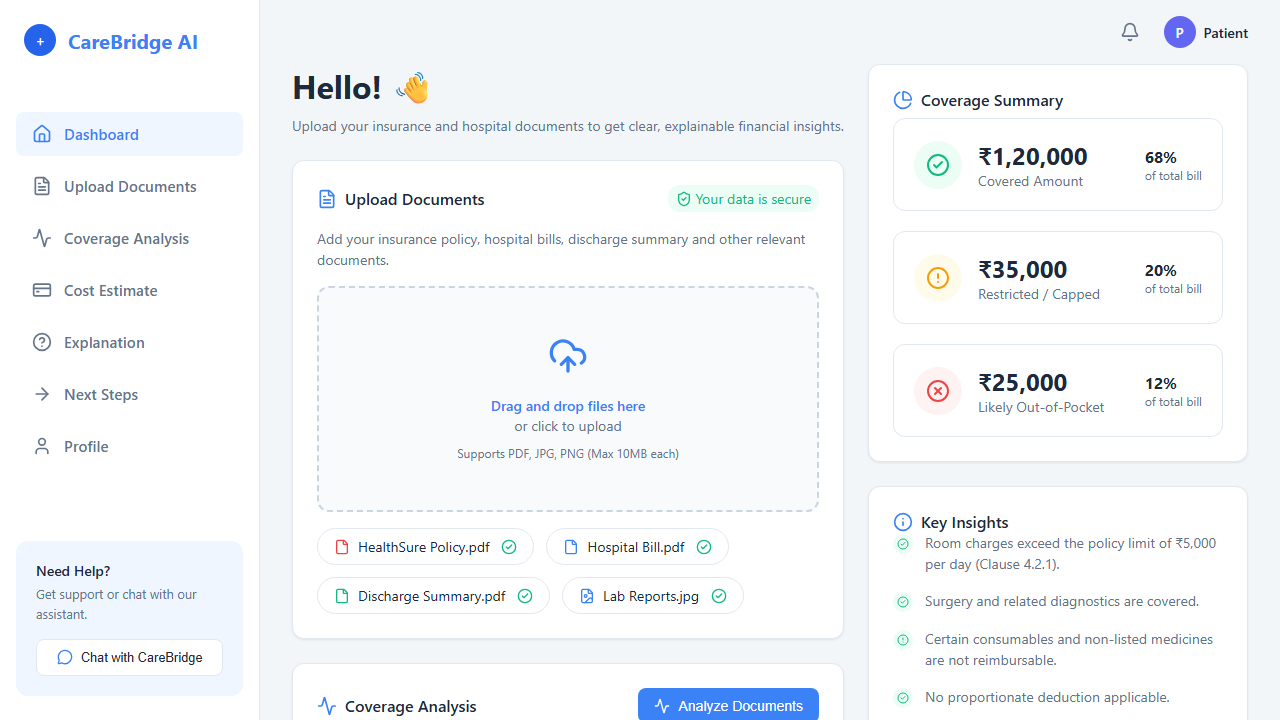
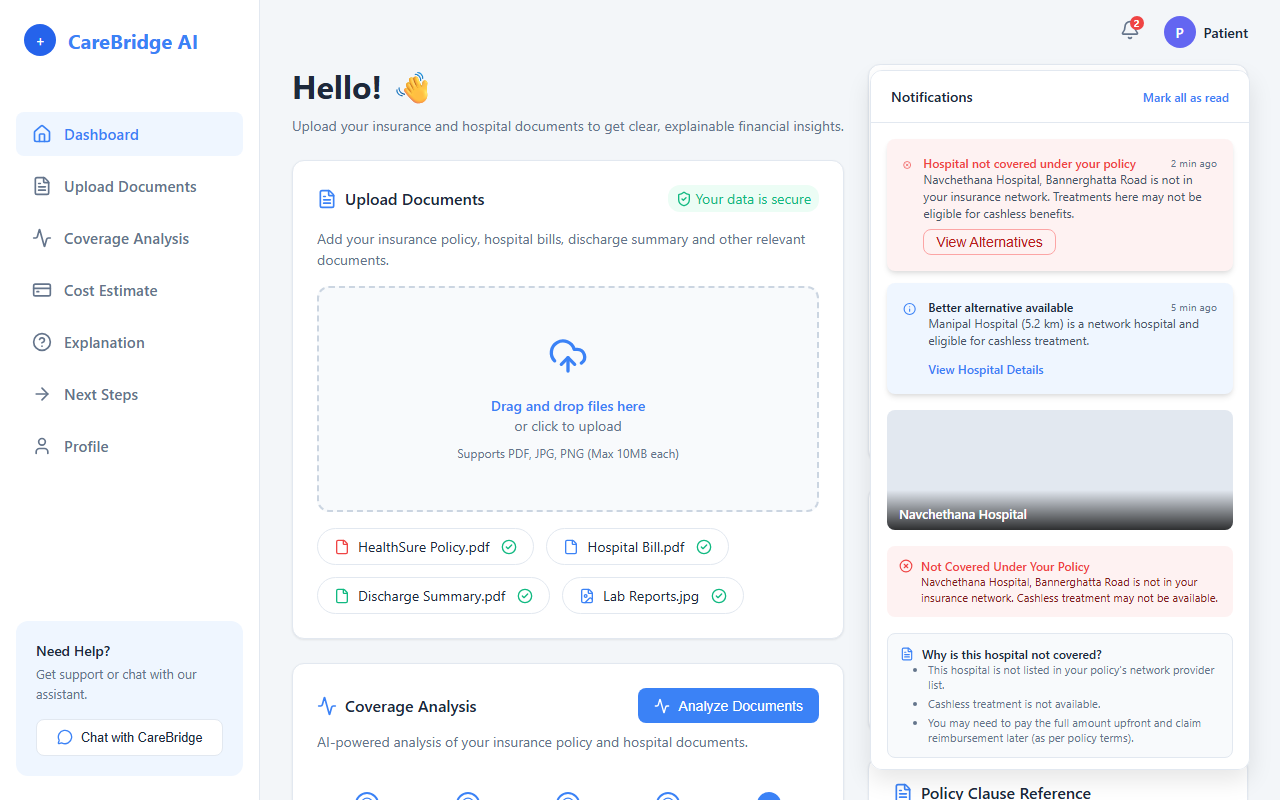
feat: implement notification panel overlay and remove mobile view screenshot

diff --git a/src/App.jsx b/src/App.jsx
@@ -1,12 +1,14 @@
-import React from 'react';
+import React, { useState } from 'react';
 import { 
   Home, FileText, Activity, CreditCard, HelpCircle, ArrowRight, User, 
   Settings, MessageCircle, UploadCloud, CheckCircle2, AlertCircle, XCircle,
-  File, FileImage, ShieldCheck, PieChart, Info, MapPin, Search, Bell
+  File, FileImage, ShieldCheck, PieChart, Info, MapPin, Search, Bell, Menu
 } from 'lucide-react';
 import './App.css';
 
 function App() {
+  const [showNotifications, setShowNotifications] = useState(true);
+  
   return (
     <div className="app-container">
       {/* Sidebar */}
@@ -37,14 +39,122 @@ function App() {
       </aside>
 
       {/* Main Content */}
-      <main className="main-content">
+      <main className="main-content" style={{ position: 'relative' }}>
         <header className="top-bar">
-          <Bell size={20} className="text-secondary" style={{ cursor: 'pointer' }} />
+          <div style={{ position: 'relative', cursor: 'pointer' }} onClick={() => setShowNotifications(!showNotifications)}>
+            <Bell size={20} className="text-secondary" />
+            <span style={{ position: 'absolute', top: '-4px', right: '-4px', backgroundColor: 'var(--danger)', color: 'white', fontSize: '0.6rem', fontWeight: 'bold', width: '14px', height: '14px', borderRadius: '50%', display: 'flex', alignItems: 'center', justifyContent: 'center' }}>2</span>
+          </div>
           <div className="user-profile">
             <div className="avatar">P</div>
             <span className="font-medium text-sm">Patient</span>
           </div>
         </header>
+
+        {showNotifications && (
+          <div style={{ position: 'absolute', top: '70px', right: '30px', width: '380px', backgroundColor: 'white', borderRadius: '12px', boxShadow: '0 10px 25px rgba(0,0,0,0.1)', zIndex: 100, border: '1px solid var(--border)', maxHeight: 'calc(100vh - 100px)', overflowY: 'auto' }}>
+            {/* Header */}
+            <div className="flex justify-between items-center" style={{ padding: '1rem 1.25rem', borderBottom: '1px solid var(--border)' }}>
+              <h3 className="font-semibold text-sm">Notifications</h3>
+              <a href="#" className="text-primary text-xs font-medium" style={{ textDecoration: 'none' }}>Mark all as read</a>
+            </div>
+            
+            {/* Notification list */}
+            <div style={{ padding: '1rem', display: 'flex', flexDirection: 'column', gap: '0.75rem' }}>
+              <div className="notification-card danger" style={{ margin: 0, border: 'none', backgroundColor: '#fef2f2', padding: '1rem', borderRadius: '8px' }}>
+                <div className="flex gap-3">
+                  <XCircle className="text-danger flex-shrink-0" size={20} />
+                  <div>
+                    <div className="flex justify-between items-center mb-1">
+                      <h4 className="text-danger font-semibold text-xs">Hospital not covered under your policy</h4>
+                      <span className="text-xs text-secondary" style={{ fontSize: '0.65rem' }}>2 min ago</span>
+                    </div>
+                    <p className="text-xs" style={{ color: '#475569', marginBottom: '0.5rem', lineHeight: 1.4 }}>Navchethana Hospital, Bannerghatta Road is not in your insurance network. Treatments here may not be eligible for cashless benefits.</p>
+                    <button className="btn-secondary text-xs" style={{ padding: '4px 12px', color: '#b91c1c', borderColor: '#fca5a5', backgroundColor: '#fef2f2' }}>View Alternatives</button>
+                  </div>
+                </div>
+              </div>
+              
+              <div className="notification-card info" style={{ margin: 0, border: 'none', backgroundColor: '#eff6ff', padding: '1rem', borderRadius: '8px' }}>
+                <div className="flex gap-3">
+                  <Info className="text-primary flex-shrink-0" size={20} />
+                  <div>
+                    <div className="flex justify-between items-center mb-1">
+                      <h4 className="font-semibold text-xs">Better alternative available</h4>
+                      <span className="text-xs text-secondary" style={{ fontSize: '0.65rem' }}>5 min ago</span>
+                    </div>
+                    <p className="text-xs" style={{ color: '#475569', marginBottom: '0.5rem', lineHeight: 1.4 }}>Manipal Hospital (5.2 km) is a network hospital and eligible for cashless treatment.</p>
+                    <a href="#" className="text-primary text-xs font-medium" style={{ textDecoration: 'none' }}>View Hospital Details</a>
+                  </div>
+                </div>
+              </div>
+            </div>
+            
+            <div style={{ padding: '0 1rem 1rem' }}>
+              <div style={{ height: '120px', backgroundColor: '#e2e8f0', backgroundImage: 'url(https://images.unsplash.com/photo-1587351021759-3e566d6af7bf?w=800&q=80)', backgroundSize: 'cover', backgroundPosition: 'center', borderRadius: '8px', marginBottom: '1rem', position: 'relative', overflow: 'hidden' }}>
+                 <div style={{ position: 'absolute', bottom: 0, left: 0, right: 0, height: '40px', background: 'linear-gradient(transparent, rgba(0,0,0,0.8))' }}></div>
+                 <div style={{ position: 'absolute', bottom: '8px', left: '12px', color: 'white', fontWeight: 600, fontSize: '0.8rem' }}>Navchethana Hospital</div>
+              </div>
+              
+              <div style={{ backgroundColor: '#fef2f2', padding: '0.75rem', borderRadius: '8px', marginBottom: '1rem' }}>
+                 <div className="flex items-center gap-2 mb-1">
+                   <XCircle className="text-danger" size={14} />
+                   <h4 className="text-danger font-semibold text-xs">Not Covered Under Your Policy</h4>
+                 </div>
+                 <p style={{ fontSize: '0.7rem', color: '#7f1d1d', lineHeight: 1.4, paddingLeft: '22px' }}>Navchethana Hospital, Bannerghatta Road is not in your insurance network. Cashless treatment may not be available.</p>
+              </div>
+
+              <div style={{ backgroundColor: '#f8fafc', padding: '0.75rem', borderRadius: '8px', border: '1px solid var(--border)', marginBottom: '1rem' }}>
+                <div className="flex items-center gap-2 mb-2">
+                  <FileText className="text-primary" size={14} />
+                  <h4 className="font-semibold text-xs">Why is this hospital not covered?</h4>
+                </div>
+                <ul style={{ paddingLeft: '1.75rem', fontSize: '0.7rem', color: 'var(--text-secondary)', display: 'flex', flexDirection: 'column', gap: '0.25rem', margin: 0 }}>
+                  <li>This hospital is not listed in your policy's network provider list.</li>
+                  <li>Cashless treatment is not available.</li>
+                  <li>You may need to pay the full amount upfront and claim reimbursement later (as per policy terms).</li>
+                </ul>
+              </div>
+
+              <div style={{ backgroundColor: '#f0f9ff', padding: '0.75rem', borderRadius: '8px', border: '1px solid #bae6fd' }}>
+                <div className="flex items-start gap-2 mb-3">
+                  <AlertCircle className="text-primary mt-1" size={14} />
+                  <div>
+                    <h4 className="text-primary font-semibold text-xs">Recommended Alternatives</h4>
+                    <p style={{ fontSize: '0.65rem' }} className="text-secondary">Here are nearby network hospitals:</p>
+                  </div>
+                </div>
+                
+                <div className="flex-col gap-2">
+                  <div className="hospital-pill" style={{ padding: '0.5rem', marginBottom: '0.4rem' }}>
+                    <span className="font-medium text-xs">Manipal Hospital</span>
+                    <div className="flex items-center gap-2">
+                      <span className="text-secondary flex items-center gap-1" style={{ fontSize: '0.65rem' }}><MapPin size={10}/> 5.2 km</span>
+                      <span className="text-success bg-success-light" style={{ padding: '2px 6px', borderRadius: '12px', fontSize: '0.65rem' }}>Network Hospital</span>
+                      <ArrowRight size={12} className="text-secondary" />
+                    </div>
+                  </div>
+                  <div className="hospital-pill" style={{ padding: '0.5rem', marginBottom: '0.4rem' }}>
+                    <span className="font-medium text-xs">Apollo Hospital</span>
+                    <div className="flex items-center gap-2">
+                      <span className="text-secondary flex items-center gap-1" style={{ fontSize: '0.65rem' }}><MapPin size={10}/> 6.8 km</span>
+                      <span className="text-success bg-success-light" style={{ padding: '2px 6px', borderRadius: '12px', fontSize: '0.65rem' }}>Network Hospital</span>
+                      <ArrowRight size={12} className="text-secondary" />
+                    </div>
+                  </div>
+                  <div className="hospital-pill" style={{ padding: '0.5rem', marginBottom: 0 }}>
+                    <span className="font-medium text-xs">Narayana Health City</span>
+                    <div className="flex items-center gap-2">
+                      <span className="text-secondary flex items-center gap-1" style={{ fontSize: '0.65rem' }}><MapPin size={10}/> 12.4 km</span>
+                      <span className="text-success bg-success-light" style={{ padding: '2px 6px', borderRadius: '12px', fontSize: '0.65rem' }}>Network Hospital</span>
+                      <ArrowRight size={12} className="text-secondary" />
+                    </div>
+                  </div>
+                </div>
+              </div>
+            </div>
+          </div>
+        )}
 
         <div className="content-grid">
           {/* Left / Center Column */}

diff --git a/README.md b/README.md
@@ -8,7 +8,6 @@ CareBridge AI is an India-specific decision-support and information platform des
 *(UI prototype built during development showcasing the CareBridge Dashboard, Upload, Analysis, and Summaries.)*
 
 
-
 ## Problem Statement
 
 Although people may have private insurance, employer insurance, or government schemes, actual policy information is usually buried inside lengthy PDFs and complicated terms. During an emergency, families often don't know:
